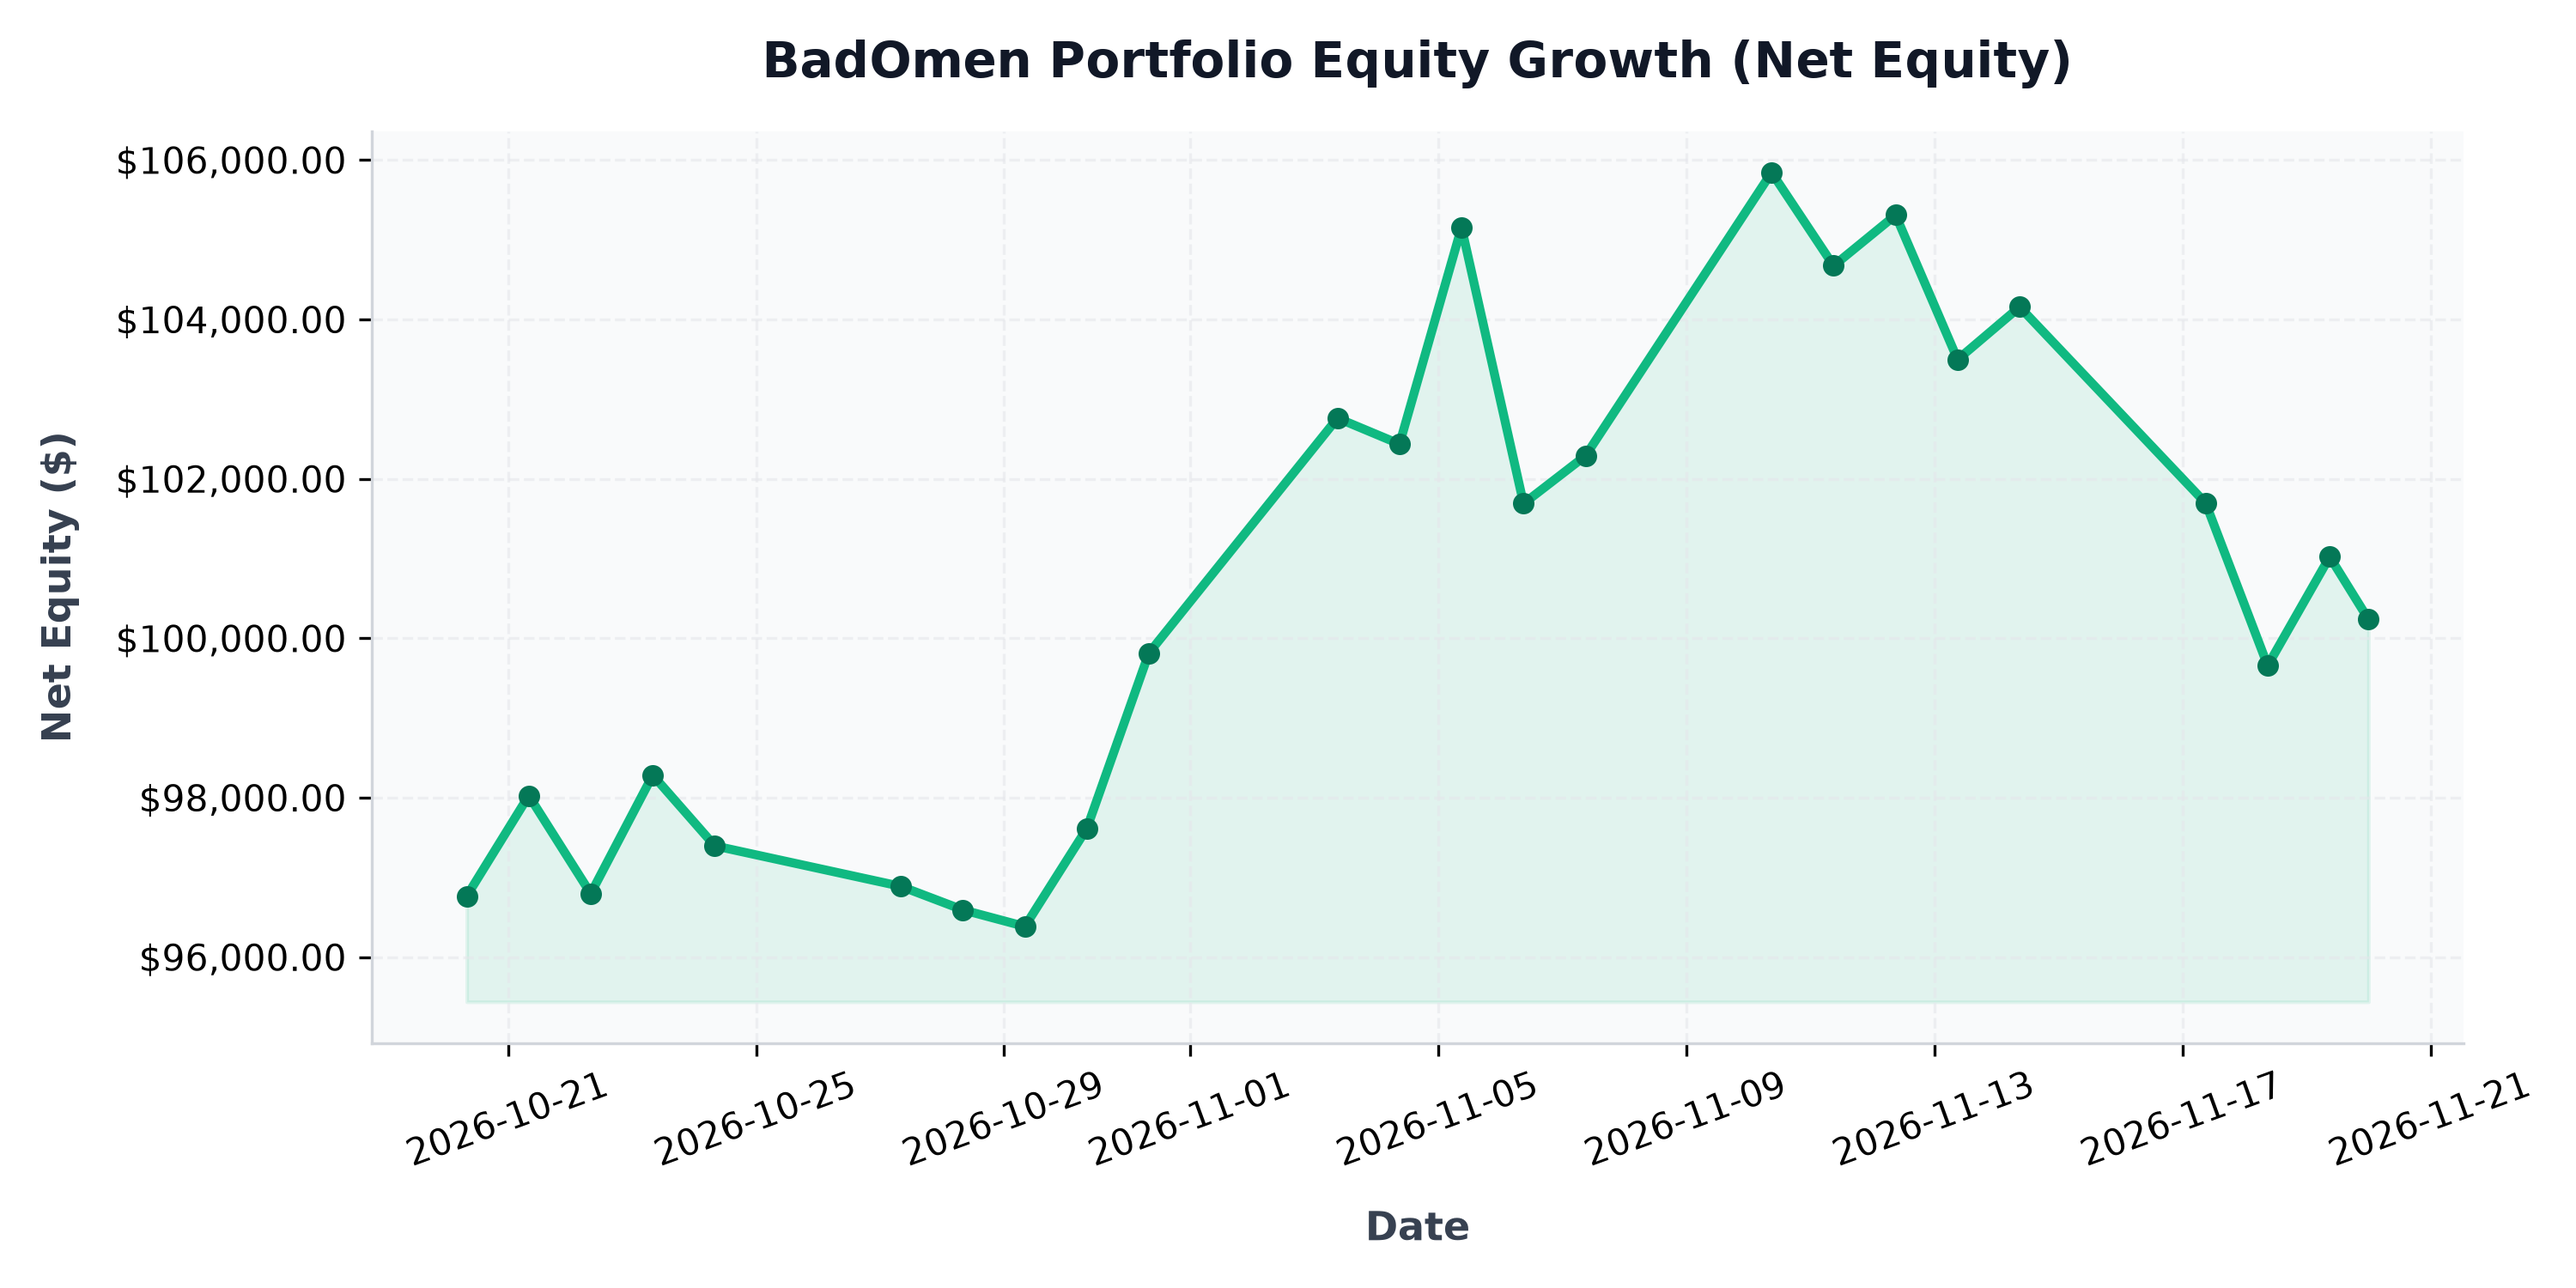
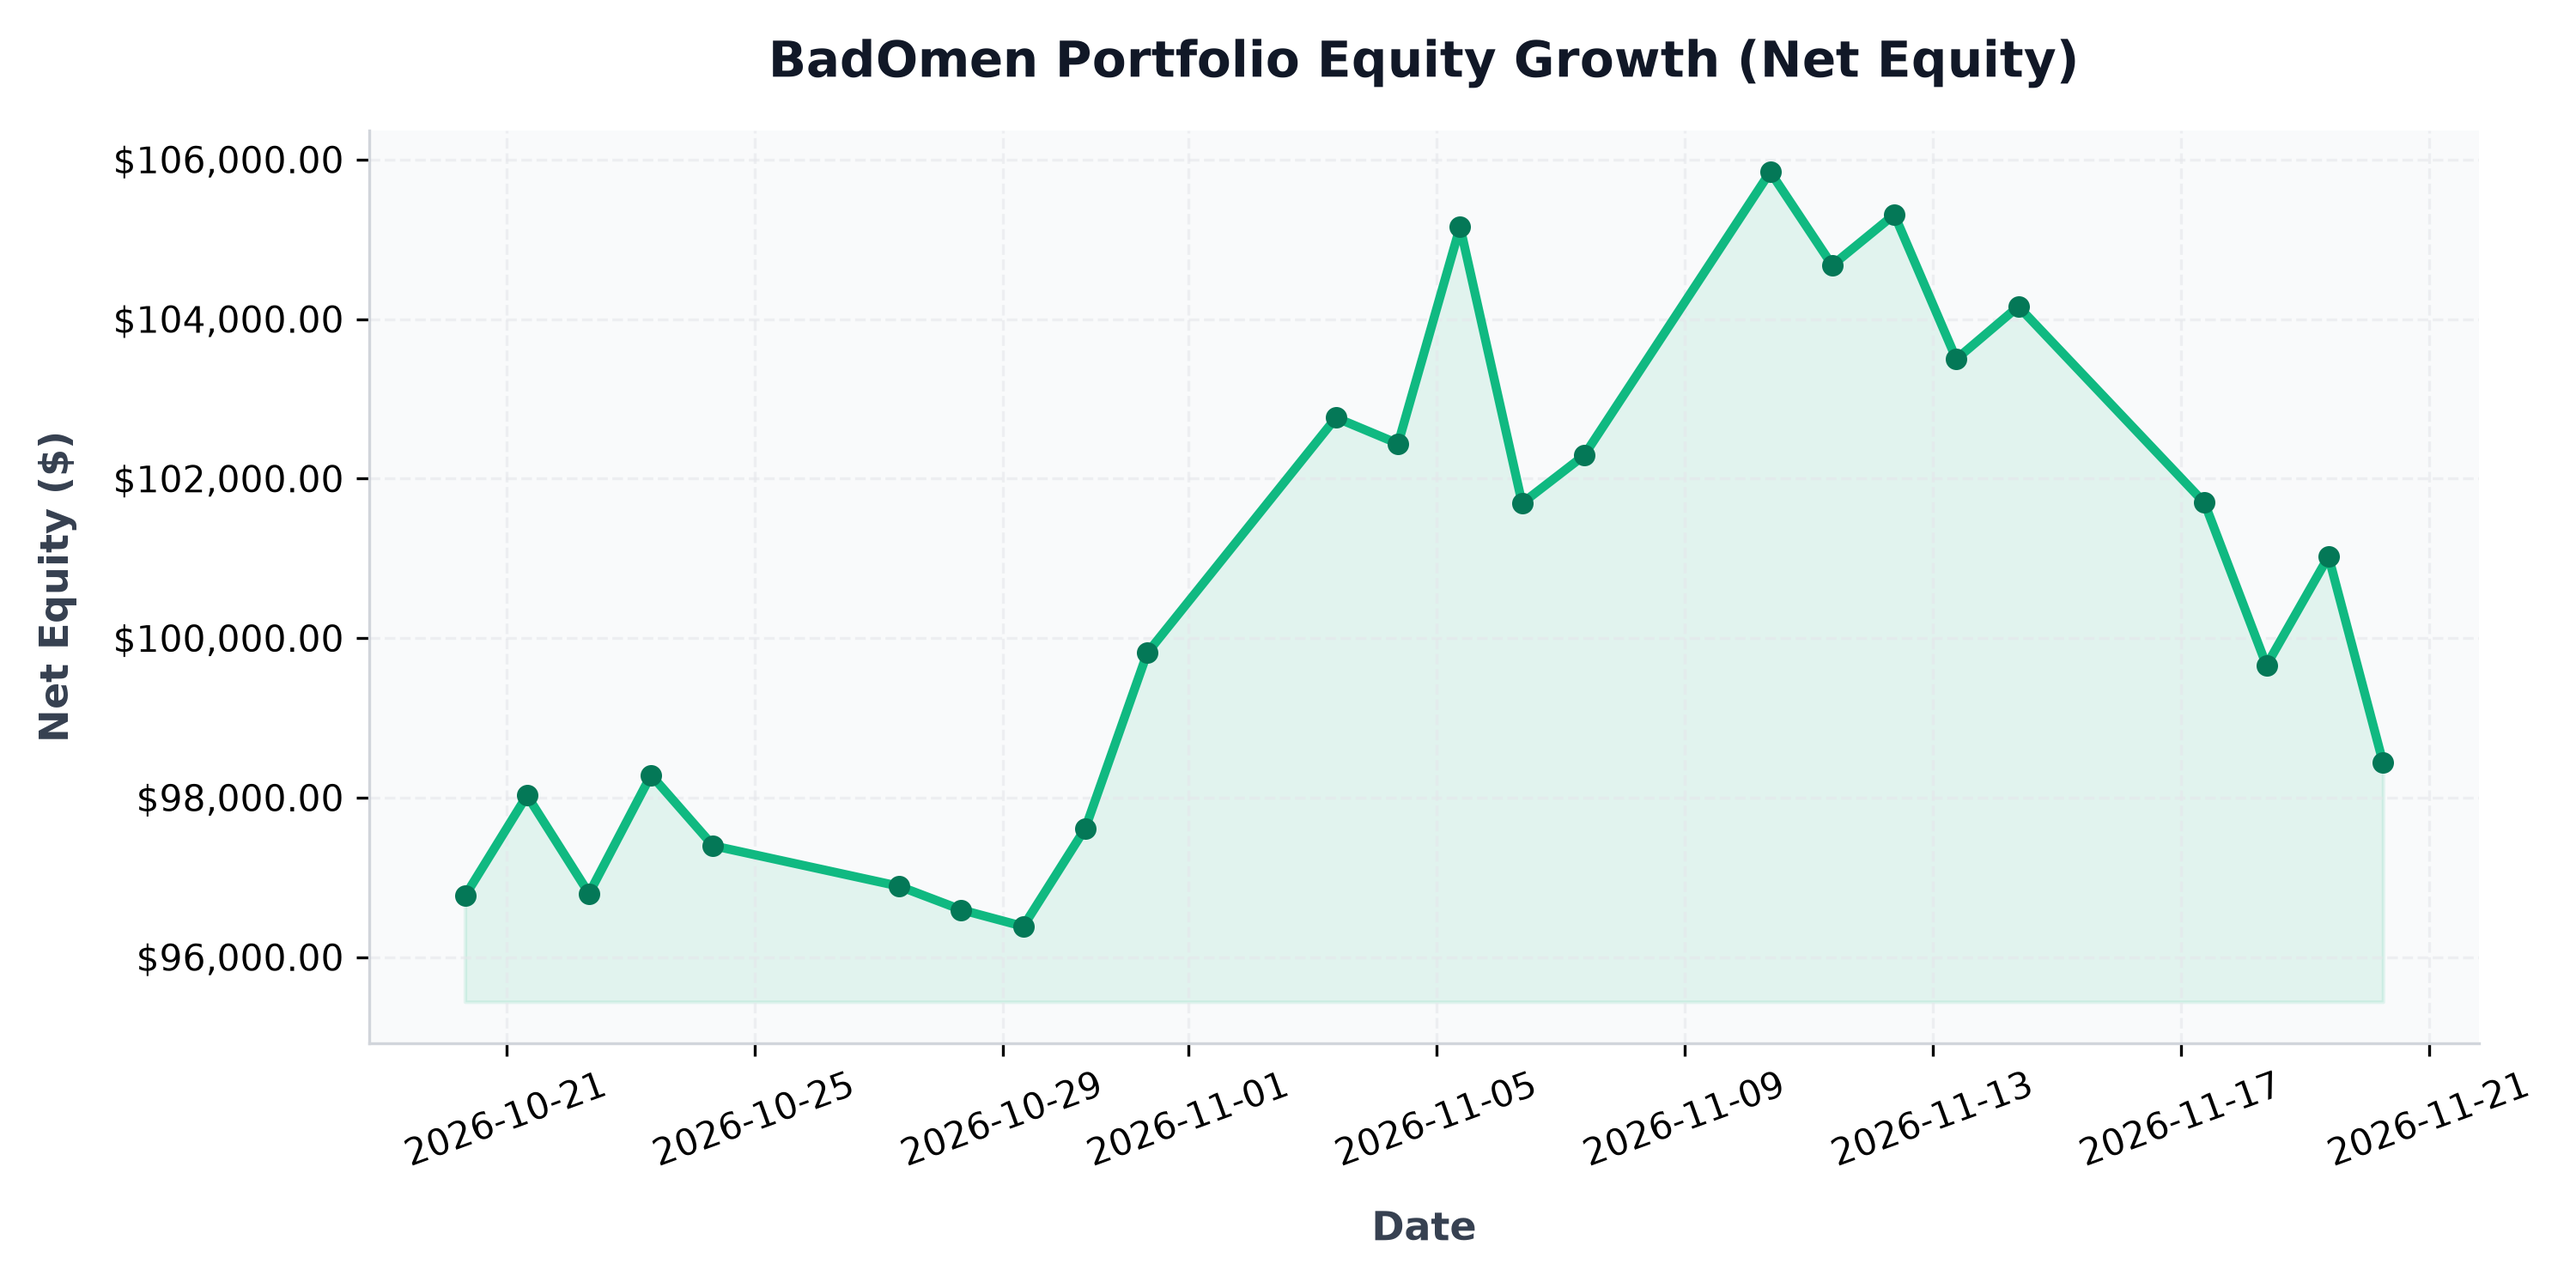
auto: daily portfolio status update - 2026-11-20 06:05:12

diff --git a/src/content/posts/portfolio-performance.md b/src/content/posts/portfolio-performance.md
@@ -1,6 +1,6 @@
 ---
 title: "BadOmen Algorithmic Portfolio Performance & PnL Report"
-pubDatetime: 2026-11-20T00:00:14.253355+08:00
+pubDatetime: 2026-11-20T06:05:12.482355+08:00
 description: "Live performance metrics, active holdings, and historic equity curve for the BadOmen automated paper trading portfolio."
 featured: true
 draft: false
@@ -16,11 +16,11 @@ Welcome to the live performance dashboard for **BadOmen**, our automated algorit
 ## 📊 Portfolio Summary
 | Performance Metric | Value | description |
 | :--- | :--- | :--- |
-| **Net Portfolio Equity** | **$100,238.53** | Total current liquidation value of cash and stock holdings |
-| **Total Unrealized P&L** | 🟢 **+$644.82** (+0.65%) | Total return of current open holdings |
-| **Cash Balance** | $37,961.96 | Idle reserve currency available for limit orders |
-| **Buying Power** | $306,054.27 | Margin-backed buying power for entry allocations |
-| **Report Updated** | `2026-11-20 00:00:14 (SGT)` | Timestamp of daily execution and sync run |
+| **Net Portfolio Equity** | **$98,440.25** | Total current liquidation value of cash and stock holdings |
+| **Total Unrealized P&L** | 🔴 **$-866.65** (-0.87%) | Total return of current open holdings |
+| **Cash Balance** | $58,003.59 | Idle reserve currency available for limit orders |
+| **Buying Power** | $325,069.05 | Margin-backed buying power for entry allocations |
+| **Report Updated** | `2026-11-20 06:05:12 (SGT)` | Timestamp of daily execution and sync run |
 
 ## 📈 Net Equity Growth Curve
 The chart below illustrates the historical performance of the account starting from our baseline capital funding of $100,000.00.
@@ -35,37 +35,35 @@ The chart below illustrates the exposure of our currently held active positions 
 ## 💼 Current Position Holdings
 | Ticker | Industry | Shares Owned | Average Entry Cost | Current Price | Unrealized P&L | Return (%) |
 | :--- | :--- | :--- | :--- | :--- | :--- | :--- |
-| **AN** | Auto & Truck Dealerships | 5 | $188.51 | $176.50 | 🔴 $-60.04 | -6.37% |
-| **AVGO** | Semiconductors | 1 | $385.71 | $358.55 | 🔴 $-27.16 | -7.04% |
-| **BIRK** | Footwear & Accessories | 407 | $37.32 | $35.66 | 🔴 $-674.69 | -4.44% |
-| **BLBD** | Farm & Heavy Construction Machinery | 154 | $64.45 | $57.54 | 🔴 $-1,064.81 | -10.73% |
-| **CELH** | Beverages - Non-Alcoholic | 22 | $29.71 | $31.38 | 🟢 +$36.73 | +5.62% |
-| **CPRI** | Luxury Goods | 464 | $13.93 | $18.86 | 🟢 +$2,290.28 | +35.44% |
-| **DUOL** | Software - Application | 10 | $129.49 | $155.09 | 🟢 +$255.99 | +19.77% |
-| **GDS** | Information Technology Services | 20 | $32.77 | $14.87 | 🔴 $-358.00 | -54.62% |
-| **GPI** | Auto & Truck Dealerships | 2 | $316.15 | $259.60 | 🔴 $-113.11 | -17.89% |
-| **ITRI** | Scientific & Technical Instruments | 12 | $81.80 | $98.20 | 🟢 +$196.80 | +20.05% |
-| **LRCX** | Semiconductor Equipment & Materials | 47 | $205.75 | $215.27 | 🟢 +$447.56 | +4.63% |
-| **MRVL** | Semiconductors | 34 | $150.99 | $148.32 | 🔴 $-90.78 | -1.77% |
-| **NESR** | Oil & Gas Equipment & Services | 23 | $28.74 | $20.31 | 🔴 $-193.89 | -29.33% |
-| **NU** | Banks - Regional | 38 | $11.60 | $12.03 | 🟢 +$16.20 | +3.68% |
-| **ORCL** | Software - Infrastructure | 44 | $118.23 | $114.93 | 🔴 $-145.07 | -2.79% |
-| **PATH** | Software - Infrastructure | 26 | $10.25 | $11.73 | 🟢 +$38.61 | +14.49% |
-| **PYPL** | Credit Services | 12 | $56.05 | $56.94 | 🟢 +$10.62 | +1.58% |
-| **SMCI** | Computer Hardware | 15 | $29.25 | $24.87 | 🔴 $-65.70 | -14.97% |
-| **WEN** | Restaurants | 257 | $8.02 | $8.59 | 🟢 +$145.27 | +7.04% |
+| **AN** | Auto & Truck Dealerships | 5 | $188.51 | $176.05 | 🔴 $-62.29 | -6.61% |
+| **AVGO** | Semiconductors | 1 | $385.71 | $348.66 | 🔴 $-37.05 | -9.61% |
+| **BIRK** | Footwear & Accessories | 407 | $37.32 | $34.00 | 🔴 $-1,350.31 | -8.89% |
+| **BLBD** | Farm & Heavy Construction Machinery | 103 | $64.45 | $56.82 | 🔴 $-786.34 | -11.85% |
+| **CELH** | Beverages - Non-Alcoholic | 15 | $29.71 | $30.50 | 🟢 +$11.81 | +2.65% |
+| **CPRI** | Luxury Goods | 310 | $13.93 | $18.50 | 🟢 +$1,416.99 | +32.82% |
+| **DUOL** | Software - Application | 10 | $129.49 | $148.58 | 🟢 +$190.89 | +14.74% |
+| **GDS** | Information Technology Services | 14 | $32.77 | $14.76 | 🔴 $-252.14 | -54.96% |
+| **GPI** | Auto & Truck Dealerships | 1 | $316.15 | $259.03 | 🔴 $-57.12 | -18.07% |
+| **ITRI** | Scientific & Technical Instruments | 12 | $81.80 | $97.51 | 🟢 +$188.52 | +19.20% |
+| **LRCX** | Semiconductor Equipment & Materials | 32 | $205.75 | $203.65 | 🔴 $-67.12 | -1.02% |
+| **NESR** | Oil & Gas Equipment & Services | 16 | $28.74 | $19.58 | 🔴 $-146.56 | -31.87% |
+| **NU** | Banks - Regional | 26 | $11.60 | $11.77 | 🟢 +$4.46 | +1.48% |
+| **PATH** | Software - Infrastructure | 18 | $10.25 | $11.20 | 🟢 +$17.10 | +9.27% |
+| **PYPL** | Credit Services | 8 | $56.05 | $56.08 | 🟢 +$0.24 | +0.05% |
+| **SMCI** | Computer Hardware | 10 | $29.25 | $23.75 | 🔴 $-55.00 | -18.80% |
+| **WEN** | Restaurants | 257 | $8.02 | $8.48 | 🟢 +$117.26 | +5.69% |
 
 ## 🔴 Recent Realized Trades
 | Ticker | Shares Sold | Entry Price | Exit Price | Strategy Trigger | Realized Return | Exit Date |
 | :--- | :--- | :--- | :--- | :--- | :--- | :--- |
-| **BLBD** | 77 | $61.73 | $56.36 | Exit Strategy (Growth Decel / SMA break) | 🔴 **$-413.49** (-8.70%) | 2026-11-19 |
-| **BVN** | 32 | $31.87 | $21.75 | Exit Strategy (Growth Decel / SMA break) | 🔴 **$-324.00** (-31.76%) | 2026-11-19 |
-| **CELH** | 11 | $29.71 | $33.08 | Exit Strategy (Growth Decel / SMA break) | 🟢 **+$+36.99** (++11.32%) | 2026-11-19 |
-| **CPRI** | 231 | $13.78 | $19.33 | Tier 1: Profit Lock (Up 30-50%) | 🟢 **+$+1282.05** (++40.28%) | 2026-11-19 |
-| **FIS** | 23 | $41.79 | $26.96 | Exit Strategy (Growth Decel / SMA break) | 🔴 **$-341.09** (-35.49%) | 2026-11-19 |
-| **GDDY** | 6 | $76.21 | $104.78 | Tier 1: Profit Lock (Up 30-50%) | 🟢 **+$+171.42** (++37.49%) | 2026-11-19 |
-| **GDS** | 10 | $32.77 | $15.31 | Exit Strategy (Growth Decel / SMA break) | 🔴 **$-174.60** (-53.28%) | 2026-11-19 |
-| **GGAL** | 17 | $56.04 | $27.49 | Exit Strategy (Growth Decel / SMA break) | 🔴 **$-485.34** (-50.95%) | 2026-11-19 |
-| **GOOGL** | 3 | $319.44 | $280.97 | Exit Strategy (Growth Decel / SMA break) | 🔴 **$-115.41** (-12.04%) | 2026-11-19 |
-| **GPI** | 1 | $316.15 | $265.33 | Exit Strategy (Growth Decel / SMA break) | 🔴 **$-50.82** (-16.07%) | 2026-11-19 |
+| **BLBD** | 51 | $61.73 | $57.33 | Exit Strategy (Growth Decel / SMA break) | 🔴 **$-224.40** (-7.13%) | 2026-11-20 |
+| **CELH** | 7 | $29.71 | $31.29 | Exit Strategy (Growth Decel / SMA break) | 🟢 **+$+11.04** (++5.31%) | 2026-11-20 |
+| **CPRI** | 154 | $13.78 | $18.47 | Tier 1: Profit Lock (Up 30-50%) | 🟢 **+$+722.26** (++34.03%) | 2026-11-20 |
+| **GDS** | 6 | $32.77 | $14.68 | Exit Strategy (Growth Decel / SMA break) | 🔴 **$-108.54** (-55.20%) | 2026-11-20 |
+| **GPI** | 1 | $316.15 | $257.17 | Exit Strategy (Growth Decel / SMA break) | 🔴 **$-58.98** (-18.66%) | 2026-11-20 |
+| **LRCX** | 15 | $204.66 | $210.09 | Exit Strategy (Growth Decel / SMA break) | 🟢 **+$+81.46** (++2.65%) | 2026-11-20 |
+| **MRVL** | 34 | $150.99 | $143.26 | Exit Strategy (Growth Decel / SMA break) | 🔴 **$-262.82** (-5.12%) | 2026-11-20 |
+| **NESR** | 7 | $28.74 | $19.98 | Exit Strategy (Growth Decel / SMA break) | 🔴 **$-61.32** (-30.48%) | 2026-11-20 |
+| **NU** | 12 | $11.60 | $11.90 | Exit Strategy (Growth Decel / SMA break) | 🟢 **+$+3.64** (++2.61%) | 2026-11-20 |
+| **ORCL** | 44 | $118.23 | $112.81 | Exit Strategy (Growth Decel / SMA break) | 🔴 **$-238.35** (-4.58%) | 2026-11-20 |
 
